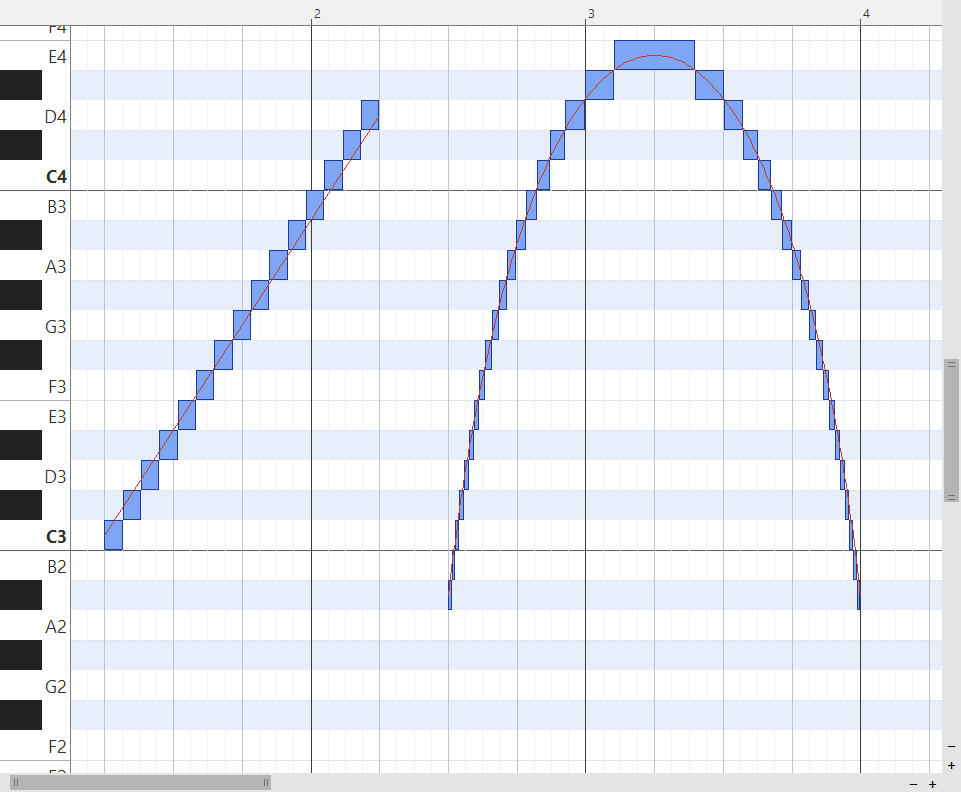
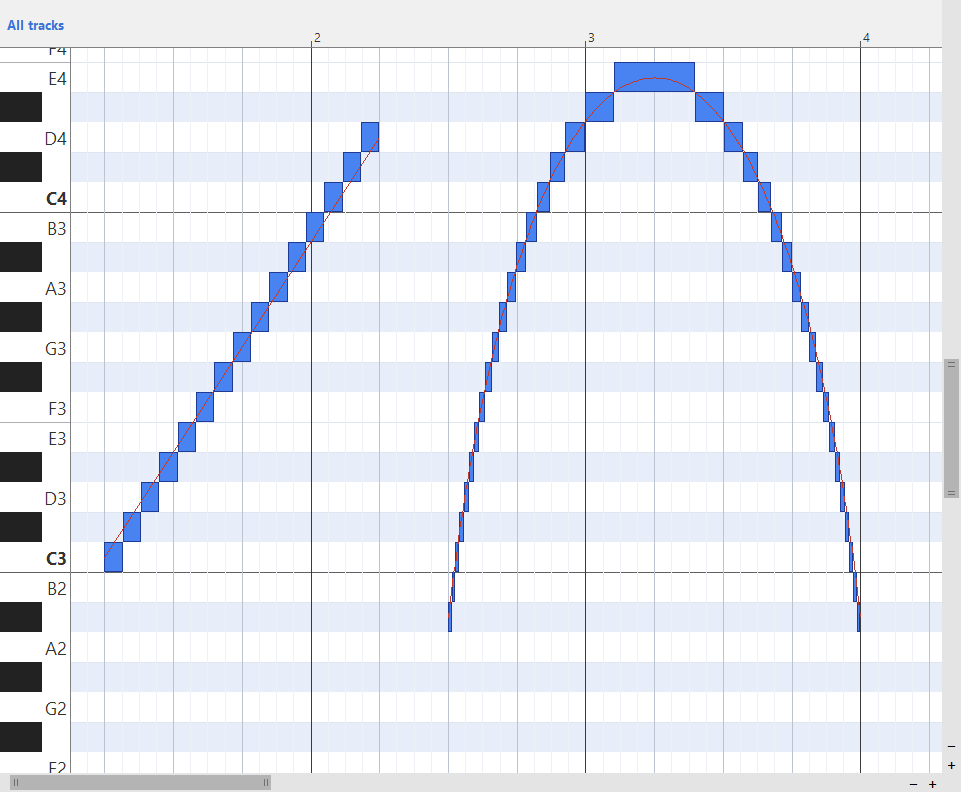
Version 1.7.2 and README pictures updated
- Changed the version to 1.7.2
- Changed the README pictures to the 1.7.2 window
- Added README pictures for Stir and Draw on Domino

diff --git a/scripts/files/about.py b/scripts/files/about.py
@@ -3,7 +3,7 @@
 import os
 import sys
 
-VERSION = "1.7.2-beta5"
+VERSION = "1.7.2"
 try:  # (written by build_version.py for a build: its commit + day, so builds with one version can be told apart)
     from files.build_stamp import BUILD
 except ImportError:

diff --git a/README.md b/README.md
@@ -45,6 +45,10 @@ Windows, nothing to install. Linux and Windows users can also [run it from sourc
 |---|---|---|
 | ![A straight line and a curve turning into stairs of notes](pictures/lines.png) | ![A circle filled with rings of notes in four colours](pictures/nested.png) | ![The Hz bass synth window with knobs, tabs and a keyboard](pictures/synth.png) |
 
+| Stir: the colours you drew, swirled | Draw on Domino: Spiderweb's tools on Domino's piano roll |
+|---|---|
+| ![A round shape whose five colour bands are swirled round its middle](pictures/stir.png) | ![Domino with Spiderweb's floating bar: a line already sent into Domino and a glissando run still waiting](pictures/domino.png) |
+
 ## Running the .exe
 
 Just run **Spiderweb.exe**. Nothing to install.
